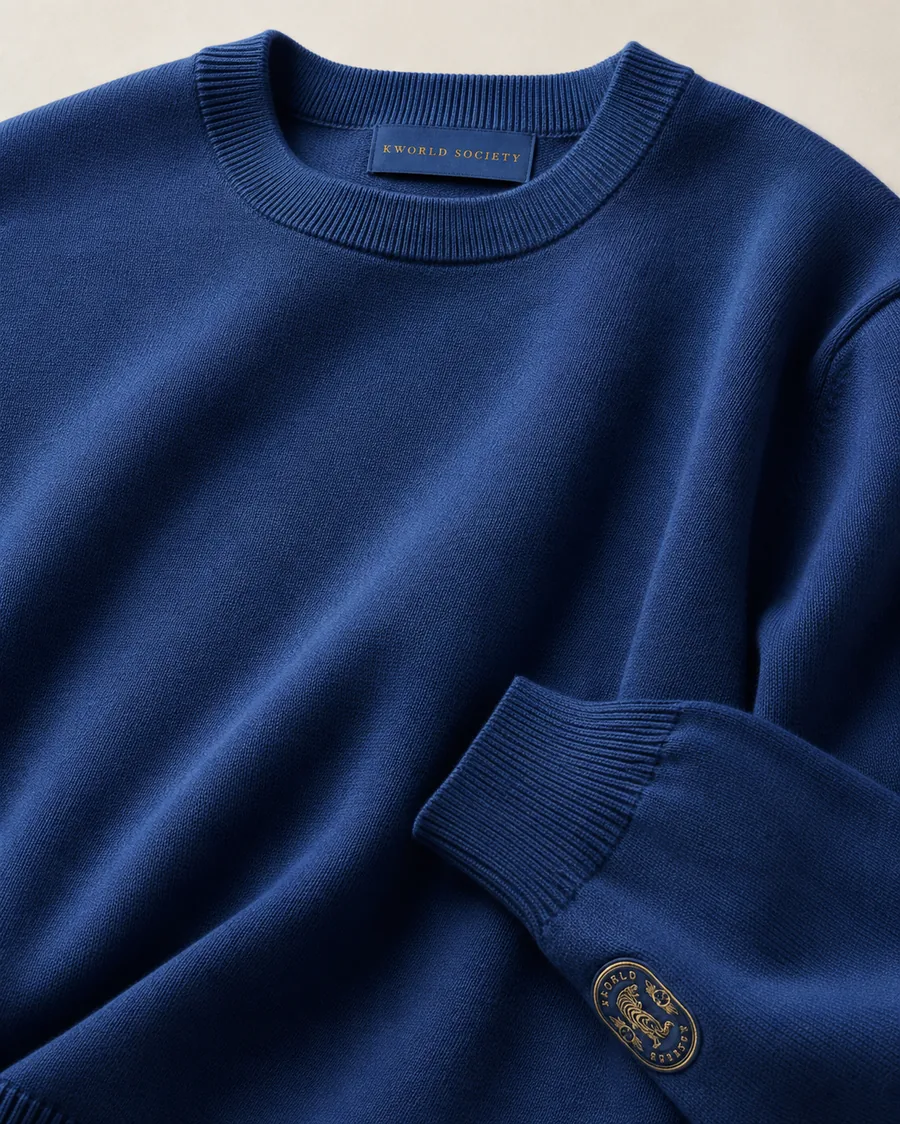
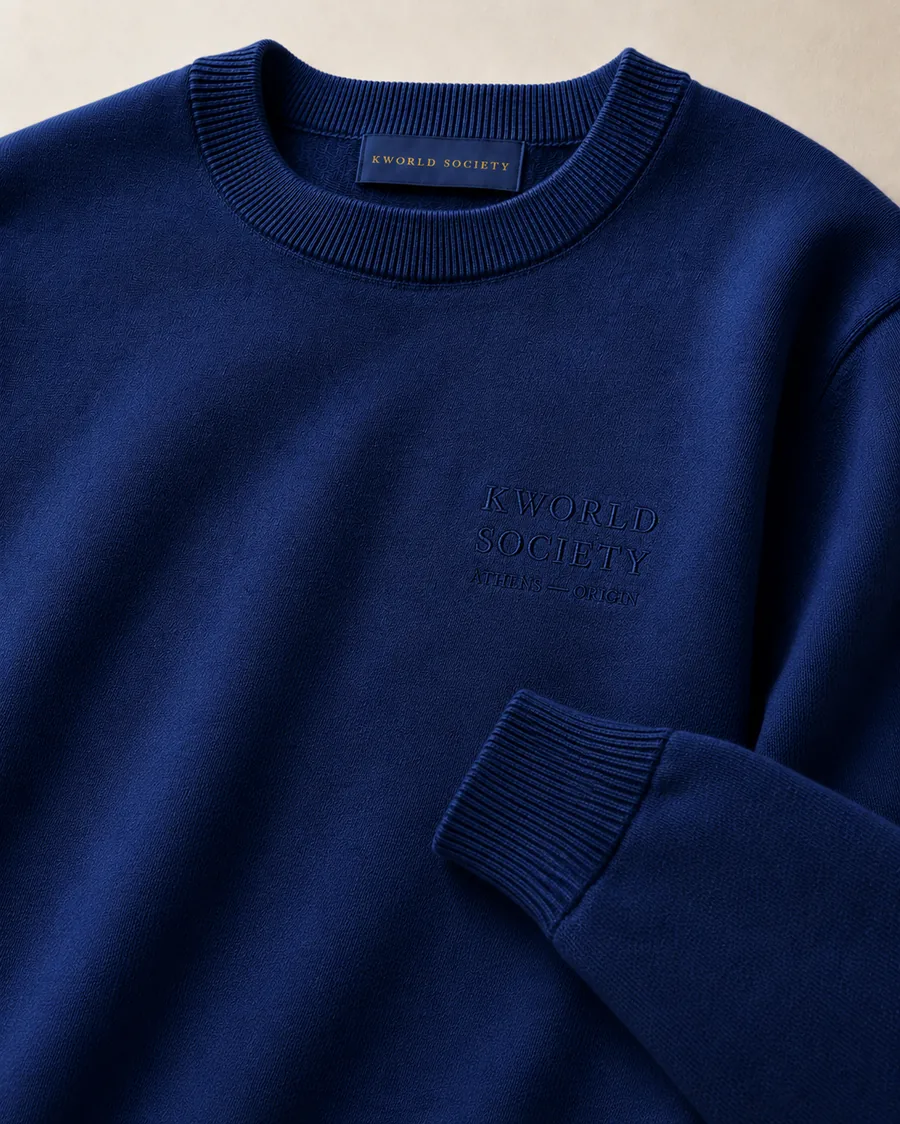
Rename capsule to Origin, add look shot, fix rail snap padding
Collection is now just "Origin" — the Athens prefix is dropped from the
heading, though the garments still carry it. Copy credits the Korean
designers and names the two colourways: Celadon and Attica Stone, which
replace "navy" and "bone" throughout the captions and alt text.

Adds the styled look as the lead rail item, so the collection opens on
a piece being worn rather than a flat lay, and swaps in the newer
crewneck shot with the tonal chest emboss.

The look shot was photographed on cool white (#F3F3F5) while the rest of
the set sits on warm cream (#E0D9D1), which read as a white rectangle in
the rail. Graded to match with a luminance-weighted curve so the
background warms to the set while the knit keeps its depth.

Fixes a real layout bug: scroll-snap-type mandatory aligns the first item
to the scrollport edge, ignoring the container's padding, so the rail
scrolled itself 54px on load and clipped item 01's caption. Adding
scroll-padding-inline makes snapping respect the padding.

diff --git a/index.html b/index.html
@@ -248,30 +248,34 @@
 <section class="shop" id="shop">
   <div class="shop-head rv">
     <div class="eyeb"><span class="eyeb-r"></span><span class="eyeb-t">Coming soon</span><span class="eyeb-r"></span></div>
-    <h2 class="sec-t">Athens <span class="shop-dash">&mdash;</span> Origin</h2>
-    <p class="sec-s">The first collection, named for the chapter that started it. Bone and navy, with the crest carried quietly on every piece.</p>
+    <h2 class="sec-t">Origin</h2>
+    <p class="sec-s">The first capsule, curated with Korean designers &mdash; a thread between the chapters that built this. In Celadon and Attica Stone, with the crest carried quietly on every piece.</p>
   </div>
 
-  <div class="rail rv" id="rail" tabindex="0" role="region" aria-label="Athens — Origin collection preview">
+  <div class="rail rv" id="rail" tabindex="0" role="region" aria-label="Origin capsule collection preview">
     <figure class="rail-i">
-      <img src="assets/img/shop/01-origin-cap.webp" width="900" height="1124" alt="Navy cap with gold embroidered KWorld Society crest and Athens — Origin lettering" loading="lazy">
-      <figcaption><span class="item-n mono">01</span><span class="item-t">Origin Cap</span><span class="item-s">Navy &middot; gold crest</span></figcaption>
+      <img src="assets/img/shop/00-origin-look.webp" width="900" height="1124" alt="The Origin capsule worn — Celadon crewneck with Attica Stone pleated trousers" loading="lazy">
+      <figcaption><span class="item-n mono">01</span><span class="item-t">The Look</span><span class="item-s">Celadon &amp; Attica Stone</span></figcaption>
     </figure>
     <figure class="rail-i">
-      <img src="assets/img/shop/02-origin-bomber.webp" width="900" height="1124" alt="Bone zip bomber jacket with a blue stripe down the sleeve and tonal crest at the cuff" loading="lazy">
-      <figcaption><span class="item-n mono">02</span><span class="item-t">Origin Bomber</span><span class="item-s">Bone &middot; blue stripe</span></figcaption>
+      <img src="assets/img/shop/01-origin-cap.webp" width="900" height="1124" alt="Celadon cap with gold embroidered KWorld Society crest" loading="lazy">
+      <figcaption><span class="item-n mono">02</span><span class="item-t">Origin Cap</span><span class="item-s">Celadon &middot; gold crest</span></figcaption>
     </figure>
     <figure class="rail-i">
-      <img src="assets/img/shop/03-origin-crewneck.webp" width="900" height="1124" alt="Navy crewneck knit with gold crest at the cuff" loading="lazy">
-      <figcaption><span class="item-n mono">03</span><span class="item-t">Origin Crewneck</span><span class="item-s">Navy &middot; gold crest</span></figcaption>
+      <img src="assets/img/shop/02-origin-bomber.webp" width="900" height="1124" alt="Attica Stone zip bomber with a celadon stripe down the sleeve and tonal crest at the cuff" loading="lazy">
+      <figcaption><span class="item-n mono">03</span><span class="item-t">Origin Bomber</span><span class="item-s">Attica Stone &middot; celadon stripe</span></figcaption>
     </figure>
     <figure class="rail-i">
-      <img src="assets/img/shop/04-origin-trouser.webp" width="900" height="1124" alt="Bone pleated trousers with a navy side stripe and crest patch at the pocket" loading="lazy">
-      <figcaption><span class="item-n mono">04</span><span class="item-t">Origin Trouser</span><span class="item-s">Bone &middot; navy stripe</span></figcaption>
+      <img src="assets/img/shop/03-origin-crewneck.webp" width="900" height="1124" alt="Celadon crewneck knit with the crest embossed tonally at the chest" loading="lazy">
+      <figcaption><span class="item-n mono">04</span><span class="item-t">Origin Crewneck</span><span class="item-s">Celadon &middot; tonal crest</span></figcaption>
     </figure>
     <figure class="rail-i">
-      <img src="assets/img/shop/05-origin-cardholder.webp" width="900" height="1124" alt="Bone leather cardholder with debossed crest and navy stripe" loading="lazy">
-      <figcaption><span class="item-n mono">05</span><span class="item-t">Origin Cardholder</span><span class="item-s">Bone &middot; debossed crest</span></figcaption>
+      <img src="assets/img/shop/04-origin-trouser.webp" width="900" height="1124" alt="Attica Stone pleated trousers with a celadon side stripe and crest patch at the pocket" loading="lazy">
+      <figcaption><span class="item-n mono">05</span><span class="item-t">Origin Trouser</span><span class="item-s">Attica Stone &middot; celadon stripe</span></figcaption>
+    </figure>
+    <figure class="rail-i">
+      <img src="assets/img/shop/05-origin-cardholder.webp" width="900" height="1124" alt="Attica Stone leather cardholder with debossed crest and celadon stripe" loading="lazy">
+      <figcaption><span class="item-n mono">06</span><span class="item-t">Origin Cardholder</span><span class="item-s">Attica Stone &middot; debossed crest</span></figcaption>
     </figure>
   </div>
 

diff --git a/css/style.css b/css/style.css
@@ -559,16 +559,14 @@ button{font:inherit;}
 .shop-head{max-width:640px;margin:0 auto 52px;padding:0 var(--pad);text-align:center;}
 .shop-head .eyeb{justify-content:center;}
 .shop-head .sec-s{margin-left:auto;margin-right:auto;}
-.shop-dash{
-  background:var(--leaf);-webkit-background-clip:text;background-clip:text;color:transparent;
-  padding:0 .06em;
-}
-
 .rail{
   display:flex;gap:26px;
   padding:4px var(--pad) 30px;
   overflow-x:auto;overscroll-behavior-x:contain;
   scroll-snap-type:x mandatory;
+  /* Without this, mandatory snapping aligns item 01 to the scrollport
+     edge and eats the padding, clipping the first caption. */
+  scroll-padding-inline:var(--pad);
   -webkit-overflow-scrolling:touch;
   scrollbar-width:thin;
   scrollbar-color:rgba(138,107,40,.42) transparent;
